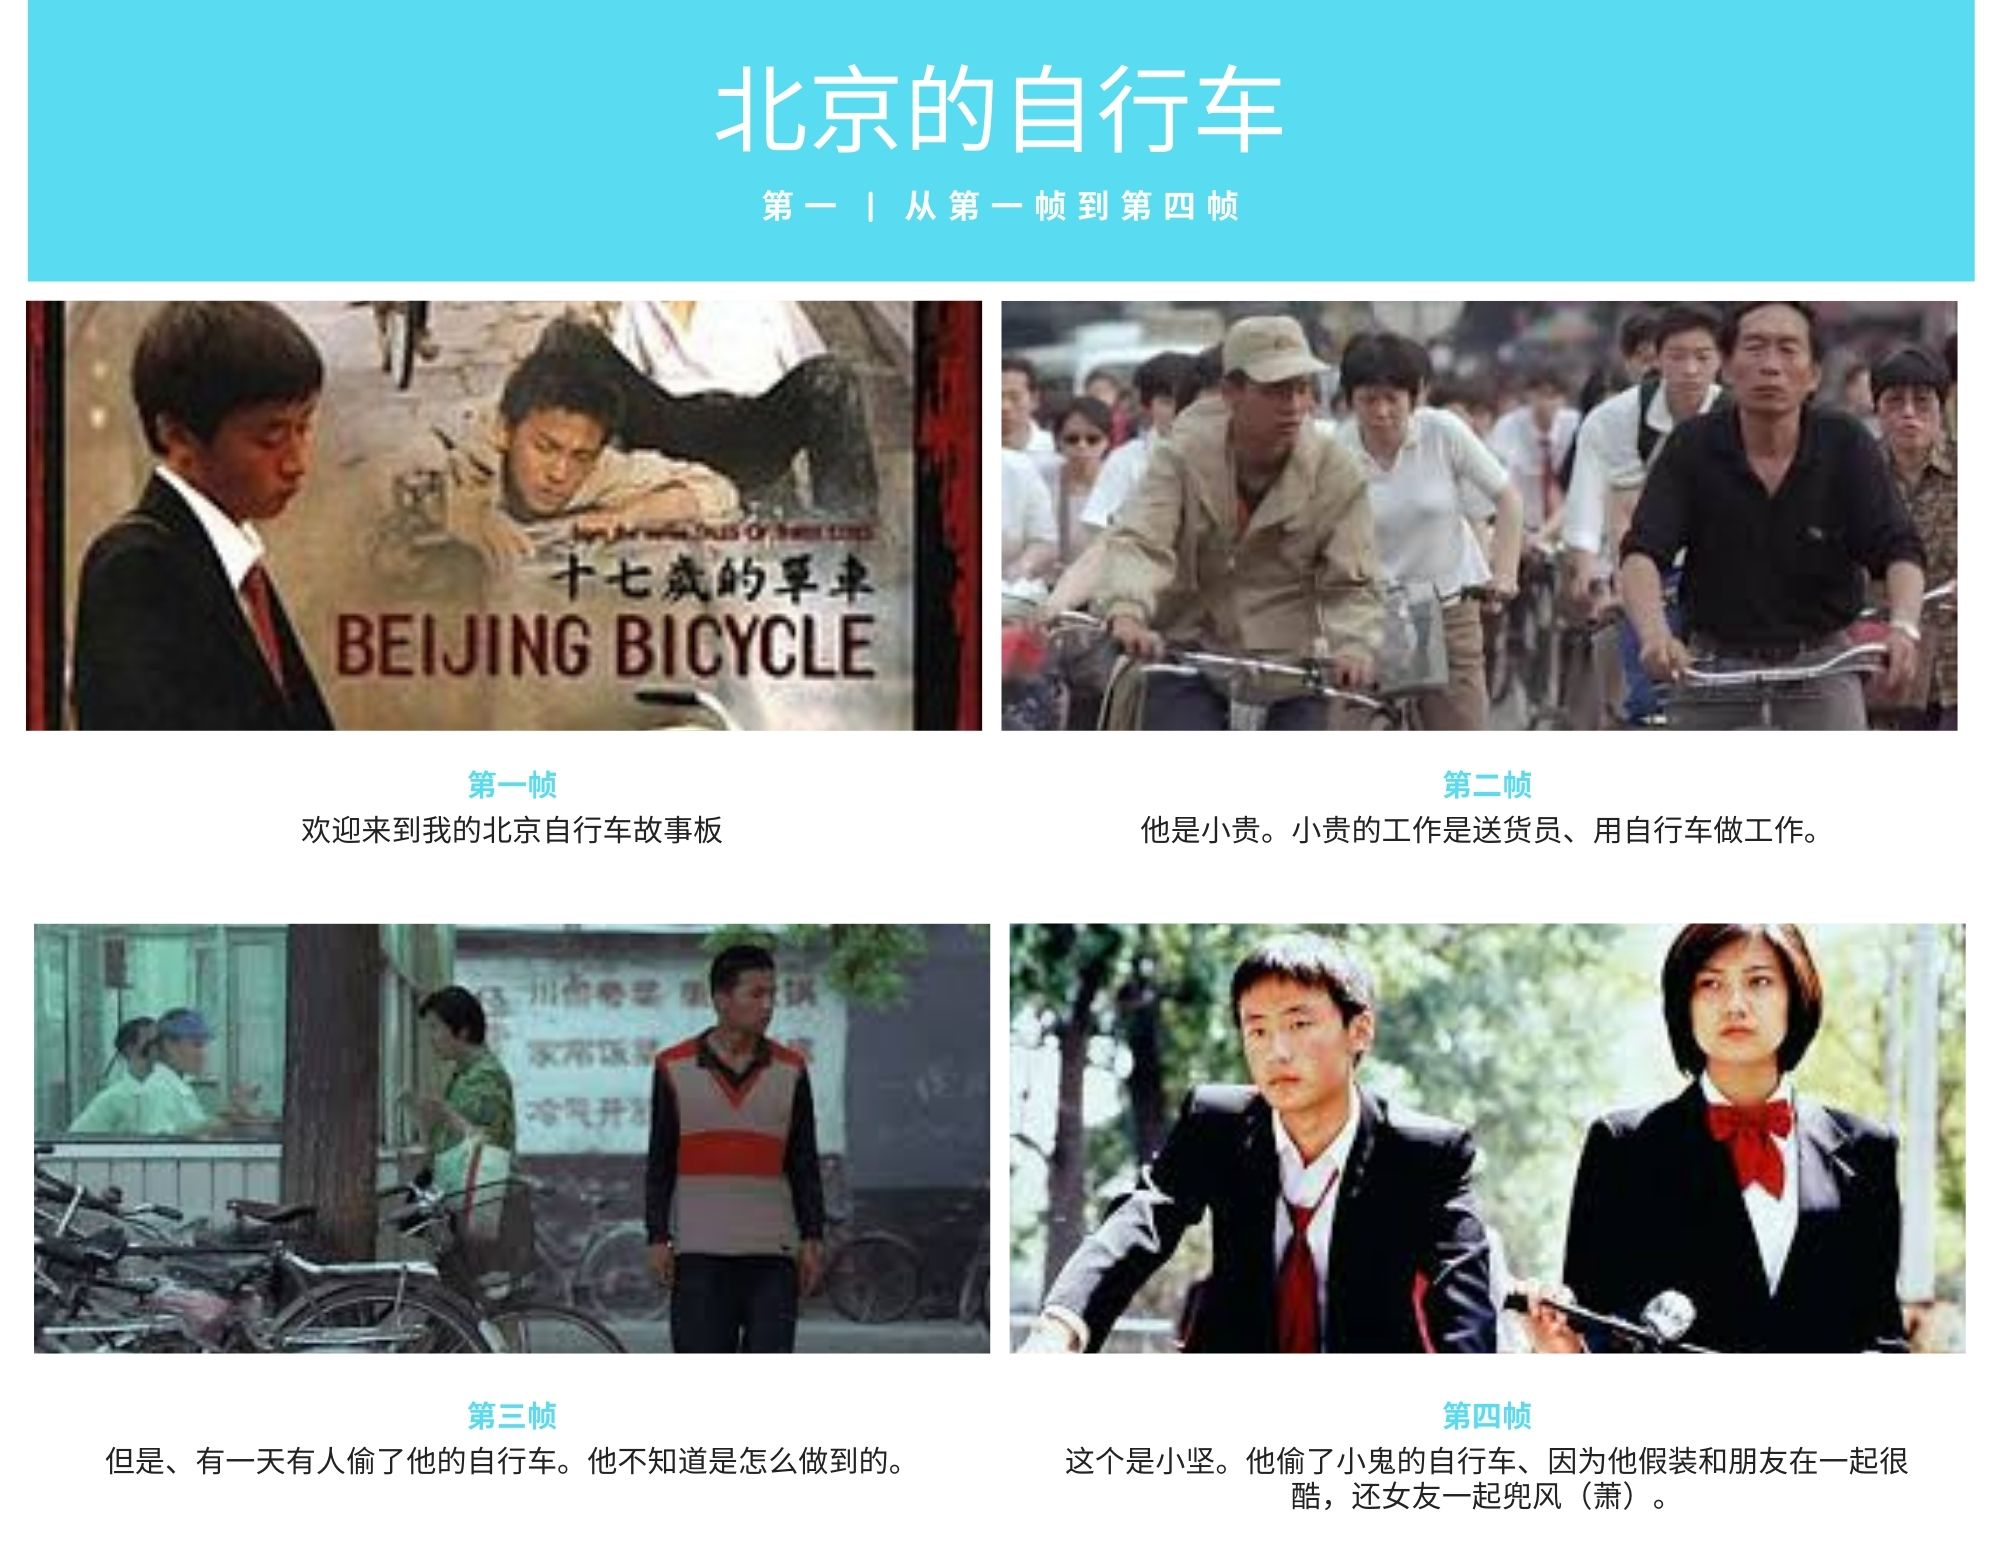
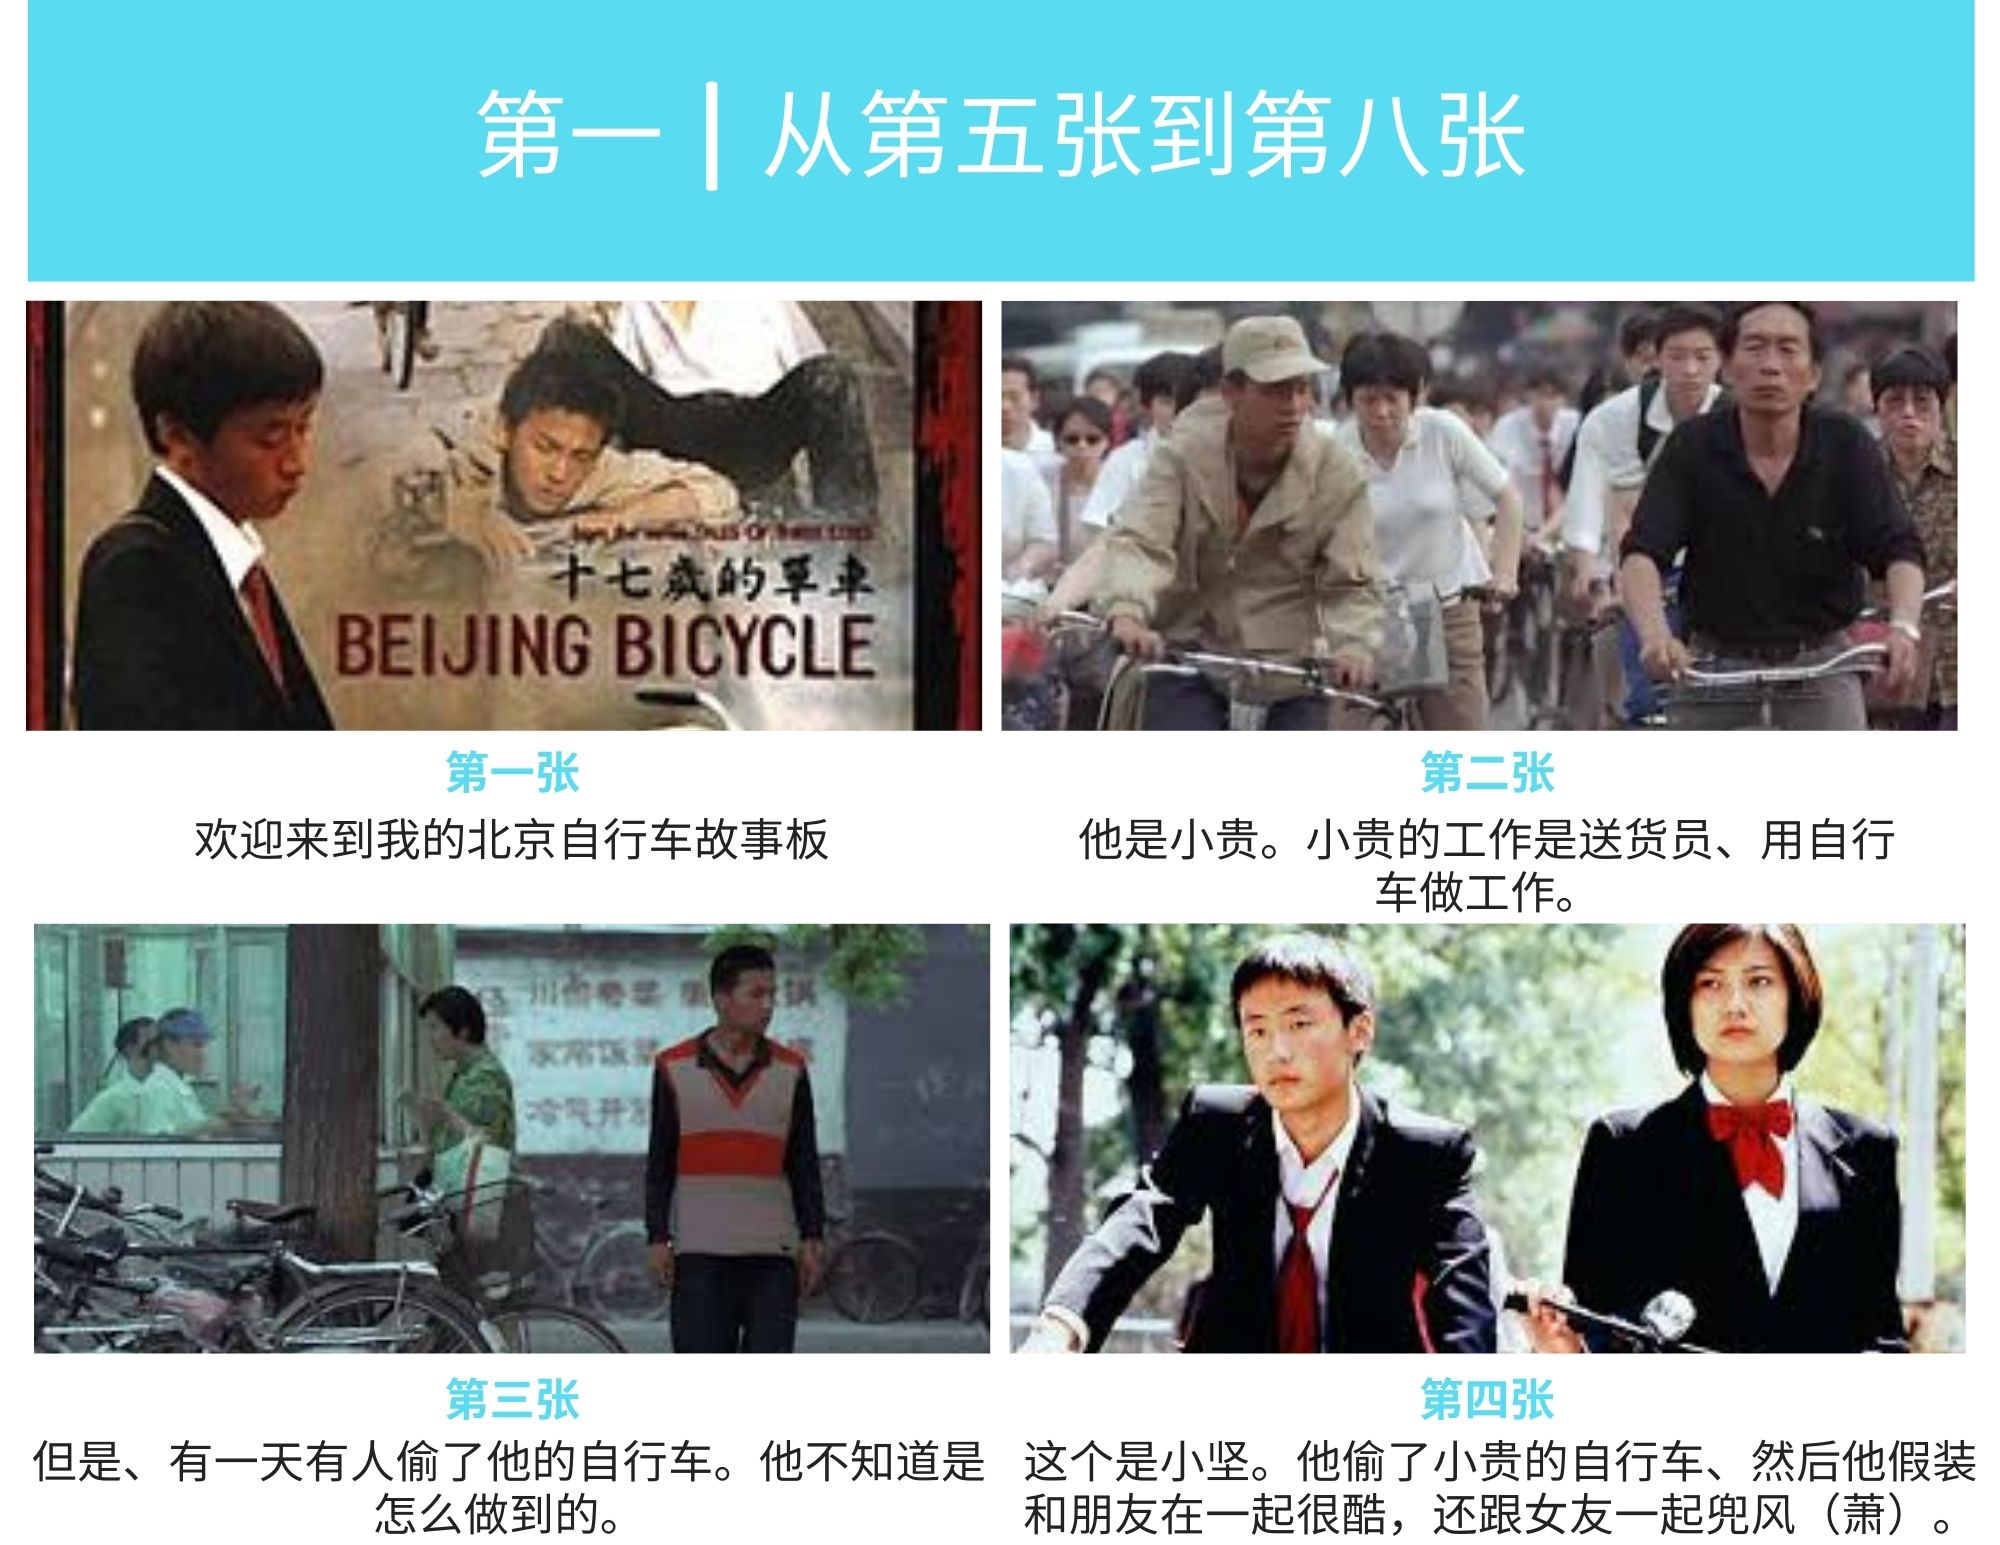
additional commit 1

diff --git a/summary-doctor.html b/summary-doctor.html
@@ -18,7 +18,8 @@
         }
         body {
           height: 100%;
-          color: rgb(241, 26, 11);
+          font-size: large;
+          color: rgb(156, 165, 31);
           line-height: 1.8;
         }
 
@@ -29,7 +30,7 @@
         h5,
         h6 {
           height: 100%;
-          color: rgb(15, 3, 3);
+          color: rgb(209, 15, 15);
           line-height: 1.8;
         }
     
@@ -114,6 +115,7 @@
         }
         table {
   font-family: arial, sans-serif;
+  font-size: large;
   border-collapse: collapse;
   width: 100%;
 }
@@ -294,6 +296,16 @@ tr:nth-child(even) {
       </div>
     </div>
 
+    <div class="w3-content w3-container w3-padding-64">
+      <p>
+        Nowadays, our health have become one of the most valued thing for everyone. Because of the pandemic,
+        we were determine to change the ways that we take care of ourselves and how does the pandemic has 
+        impacted us to change. Therefore, I made a task focus on seeing a doctor or visting the doctor in 
+        which we will see the situation of the patient and the possible determinations made by the doctor. 
+      </p>
+    </div>
+
+
     <!-- Container (About Section) -->
     <div class="w3-content w3-container w3-padding-64">
         <h1 class="w3-center">新生词</h1>
@@ -404,27 +416,27 @@ tr:nth-child(even) {
             height="433"
           />
           <br>
-          <p>
-            老同志胃痛，所以去看医生。医生向他问好，给他做了检查。医生问他有什么饮食习惯。
-            然后老同志告诉医生，他的饮食习惯是吃东西。他开始告诉儿媳，孙子的饮食习惯都是吃的。
-            然后，医生问你为什么不给自己买只狗，他说因为狗有一个饮食习惯就是吃东西，也想吃东西。
-            这是一个有趣的抖音。
+          <p size="100">
+            老同志胃痛，所以去看医生。医生说他问好，给他做了检查。医生问他有什么饮食习惯。
+            然后老同志告诉医生，他的饮食习惯是吃剩下的食物。他开始告诉他吃儿媳的剩下的食物
+            和孙子的剩下的食物。然后，医生问你为什么不养一只狗，他说因为狗有一个饮食习
+            惯就是吃剩下东西，老同志觉得也吃狗的剩下东西。这是一个好玩儿的抖音。
           </p>
         </div>
 
         <!-- Hide this text on small devices -->
         <div class="w3-hide-small w3-padding-large w3-text-black-bold">
             <h1 class="w3-center">Doctor Prediction</h1>
-          <p>我有两个预测：
+          <p>我有两个predictions：
               <br>
               <br>
-            第一。 我不相信医生会给这位老同志治病。我觉得他只是在讽刺和浪费医生的时间。
+            第一。 我不觉得医生会给这位老同志治病。我觉得他只是在讽刺和浪费医生的时间。
             所以，医生会告诉他吃点药，但她不会把他踢出去。医生会告诉他每天吃两次药，每次一次。
             然后，她会告诉他一周后见她。
             <br>
             <br>或者<br>
             <br>
-            第二。第二。医生会告诉他不要再讽刺了，告诉她他不舒服的真正原因。现在，老同志会告诉她，
+            第二。医生会告诉他不要再讽刺了，告诉她他不舒服的真正原因。现在，老同志会告诉她，
             我和他孙子媳妇吃饭的时候，他吃了变质的食物。所以，他想知道该怎么办。然后，医生告诉他需要喝加柠檬和蜂蜜的热水。
             老同志问他需要打针还是吃药，医生说不需要。最后，医生和他一起完成了检查。
           </p>

diff --git a/travel-weather-advisory.html b/travel-weather-advisory.html
@@ -285,16 +285,27 @@
      </div>
    </div>
 
+   <div class="w3-content w3-container w3-padding-64">
+    <p>
+      Travelling is a great way to demostrate how much we can learn from every place that we visit. 
+      The idea of this task is to develop and learn about the weather in three different places around
+      the world. Taipei, Barcelona, and Toronto were my places to analyze the difference weather patterns. 
+      I think that determining the weather in a different language, it made you realize that there 
+      is a lot to learn from how to create the sentences to perfrom better expectations to how see the 
+      weather measurement and patterns. 
+    </p>
+  </div>
+
    <!-- Container (Hardest Character Section) -->
-   <div class="w3-content w3-container w3-padding-64"><h2 class="w3-center w3-text-yellow">天气城市</h2>
+   <div class="w3-content w3-container w3-padding-64"><h2 class="w3-center w3-text-yellow">城市的天气</h2>
     <h3 class="w3-align-left w3-text-black-bold">台北</h3>
     <div class="w3-light-grey">
       <img src="images/Taipei 城市.jpg" class="w3-image w3-round" style="width: 200%" />
     </div>
     <p class="w3-center w3-text-black">
      <em
-       >台北：现在是台北的冬天。晚上和白天的天气都很暖和。最高气温23摄氏度，最低气温17摄氏度。
-       即使是冬天，这个季节似乎也很暖和。今天，我们将有一个多云和多风的一天。我现在想去台北。
+       >台北：现在是台北的冬天。晚上和白天的天气都很暖和。最高的温度23摄氏度，最低的温度17摄氏度。
+       不但台北的冬天很暖和，而且台北的冬天凉快。今天，我们会有一个多云和多风的一天。我现在想去台北。
      </em>
    </p>
    <div class="w3-light-grey">
@@ -306,8 +317,8 @@
     </div>
     <p class="w3-center w3-text-black">
      <em
-       >巴塞罗那：现在是巴塞罗那的冬天。夜间天气凉爽。但是，白天的天气很暖和。最高气温17摄氏度，
-       最低气温12摄氏度。这个季节雨水很多。
+       >巴塞罗那：现在是巴塞罗那的冬天。夜间天气凉爽。但是，白天的天气很暖和。最高的温度17摄氏度，
+       最低的温度12摄氏度。这个季节雨水很多。
      </em>
    </p>
    <div class="w3-light-grey">
@@ -320,8 +331,8 @@
     <p class="w3-center w3-text-black">
       <em
         >多伦多
-        现在是多伦多的冬天。晚上和白天的天气都很冷。最高气温6摄氏度，最低气温1摄氏度以下。
-        这几天好像下雪了。我建议把冬天的衣服放在明天的天气里。
+        现在是多伦多的冬天。晚上和白天的天气都很冷。最高的温度6摄氏度，最低的温度1摄氏度以下。
+        这几天好像下雪了。 我建议你明天穿冬天的衣服放。
       </em>
     </p>
     <div class="w3-light-grey">

diff --git a/chinese-food-review.html b/chinese-food-review.html
@@ -285,8 +285,18 @@
       </div>
     </div>
 
+    <div class="w3-content w3-container w3-padding-64">
+      <p>
+        In this task, I will present you an example in how to write a review for restaurant online. 
+        Because I have a lot of interest in eating Chinese food, I decided to give it a try to a Chinese 
+        restaurant here in Minnesota. Therefore, I decided to go to 北海 or Mandarin Kitchen located in 
+        Bloomington, Minnesota. Here's an example of a review that I made based on what I think about the food。
+
+      </p>
+    </div>
+
     <!-- Container (Hardest Character Section) -->
-    <div class="w3-content w3-container w3-padding-64"><h3 class="w3-center w3-text-yellow">北海餐厅</h3>
+    <div class="w3-content w3-container w3-padding-64"><h3 class="w3-center w3-text-yellow">北海的物对好吃！</h3>
        <span class="fa fa-star checked"></span>
        <span class="fa fa-star checked"></span>
        <span class="fa fa-star checked"></span>
@@ -294,12 +304,12 @@
        <span class="fa fa-star"></span>
       <p class="w3-center w3-text-black">
         <em
-          >最好的地方吃中国菜以外的中国！
-          上周，我去了北海餐厅。我喜欢他们的中国饺子配牛肉、鸡肉和海鲜。我喜欢吃他们的螃蟹饺子。
-          他们也有包子，这在中国以外并不常见。我喜欢他们的菠萝。这道菜又好吃又正宗。我喜欢这家餐馆提供的点心。
-          我觉得我在吃巴西菜。我也喜欢喝热茶和水。即使食物不便宜，你也不会后悔试一试。这家餐厅很漂亮，很干净。
-          我觉得我又回到了中国。我可能会问服务员厨师会不会做巧克力，我个人喜欢。
-          用餐日期：2021年 1 月 23日
+          >
+          上周，我去了北海餐厅。我喜欢他们的中国牛肉和鸡肉饺子。也喜欢吃他们的螃蟹饺子。
+          他们也有包子，这个家常包子很好看。我喜欢他们的菠萝。这道菜又好吃又不辣。我喜欢这家常的小吃。
+          我觉得点心就象吃巴西菜。我也喜欢喝热茶和水。可是我觉得这个菜不便宜，也不用很多位子。这家餐厅很漂亮，很干净。
+          我觉得他们的菜做菜的时候少放糖，多放点盐。
+          2021年 1 月 23日
         </em>
       </p>
       <div class="w3-light-grey">

diff --git a/references.html b/references.html
@@ -287,6 +287,15 @@
       <div class="w3-content w3-container w3-padding-64">
         <h2 class="w3-center w3-text-bold">List of References</h2>
         <p class="w3-justified w3-text-black">
+          Bogotá pontifical bolivarian university colombian peace process colombian declaration of independence jurisdicción especial de paz, bandera colombia, flag, colombia png. (n.d.). [Photograph]. PNG-EGG. https://www.pngegg.com/en/png-wtgqx
+          Carstens-Peters, G. (2017, July 9). Person writing on white paper [Photograph]. Unsplash. https://unsplash.com/photos/ZWD3Dx6aUJg
+          Cindy. (2021, March 18). Chinese new year celebrations (2021): Day-by-Day guide [Photograph]. China Highlights. https://images.chinahighlights.com/allpicture/2019/12/0fb53e0bf7ca4f0085acba89_cut_800x500_10.jpg
+          Gouw, T. (2016, August 15). Toronto blue jays stadium [Photograph]. Unsplash. https://unsplash.com/photos/VvQSzMJ_h0U
+          I. (n.d.). Bandera nacional de China. Colores oficiales. ProporciÃ3n correcta. Vector de illustracion libre de derechos 1041713402. iStock. Retrieved May 3, 2021, from https://www.istockphoto.com/es/fotos/bandera-china
+          Marino, A. (n.d.). The family table - well guide - the new york times [Photograph]. The New York Times. https://static01.nyt.com/images/2019/10/10/well/well-guide-family-table-slide-IL9L/well-guide-family-table-slide-IL9L-jumbo.jpg
+          Morariu, L. (2021, January 9). Black laptop computer on brown wooden table [Photograph]. Unsplash. https://unsplash.com/photos/m49NDxxGR0U
+          Mossholder, T. (2019, September 25). Colorful hands 2 of 3 [Photograph]. Unsplash. https://unsplash.com/photos/bo3SHP58C3g
+          Vanesa’s blog. (n.d.). 101 formas de decir te quiero [Photograph]. Boda Estilo . . . La Web de Tu Boda. https://bodaestilo.com/san-valent-n/101-idiomas-decir-te-quiero
           <em
             >Canva home page. (n.d.). Canva. Retrieved February 21, 2021, from 
             <a href="https://www.canva.com/"

diff --git a/audio-description.html b/audio-description.html
@@ -274,9 +274,21 @@
       <div class="w3-display-middle" style="white-space: nowrap">
         <span
           class="w3-center w3-padding-large w3-text-black-bold w3-red w3-xlarge w3-wide w3-animate-opacity"
-          >Audio Description for the Blind</span
+          >中文的音频</span
         >
       </div>
+    </div>
+
+    <div class="w3-content w3-container w3-padding-64">
+      <p>
+        Believe that making something for a great cause, it a life-changing oportunity
+        to someone. I think creating resoruces to help blind people to be able to communicate
+        and perform activities inside the internet is a creative and positive way to support 
+        them in having a brigther and properous future. Therefore, we created a task that is focus 
+        on them. In this task, I wanted to make sure I practice my oral skills so that I can help 
+        other people to understand the actions perform by the people who were inside the video provided
+        by our professor. The still will also make the video to be explained clearly and concisely. 
+      </p>
     </div>
 
     <br>

diff --git a/北京大学-walking-tour.html b/北京大学-walking-tour.html
@@ -285,6 +285,15 @@
      </div>
    </div>
 
+   <div class="w3-content w3-container w3-padding-64">
+    <p>
+      One significant aspect as we are learning about a new language is how to ask or move youself by using 
+      directions such as turn right, turn left, go up, go straight, etc. This task is focus on how to make 
+      direction in which we determine to go from one place to another. In this case, we will take a walking 
+      tour around the University of Beijjing. I hope you enjoy the tour! 
+    </p>
+  </div>
+
    <!-- Container (Hardest Character Section) -->
    <div class="w3-content w3-container w3-padding-64"><h2 class="w3-center w3-text-yellow">北京大学徒步游</h2>
      <div class="w3-light-grey">

diff --git a/北京的自行车-storyboard.html b/北京的自行车-storyboard.html
@@ -285,6 +285,15 @@
      </div>
    </div>
 
+   <div class="w3-content w3-container w3-padding-64">
+    <p>
+      北京的自行车 was a movie that me and my classmates wacthed while we were learning about the chinese culture
+      and how does a bycicle became a tool for frienship, love, and hate. This movie gave us a closer look into 
+      the traditional Chinese culture. Inside of task 3, I will show you a summary of the movie with storyboard 
+      that I determine the most important situations inside the movie.
+    </p>
+  </div>
+
    <!-- Container (Hardest Character Section) -->
   <div class="w3-content w3-container w3-padding-64">
     <p class="w3-center w3-text-black">
